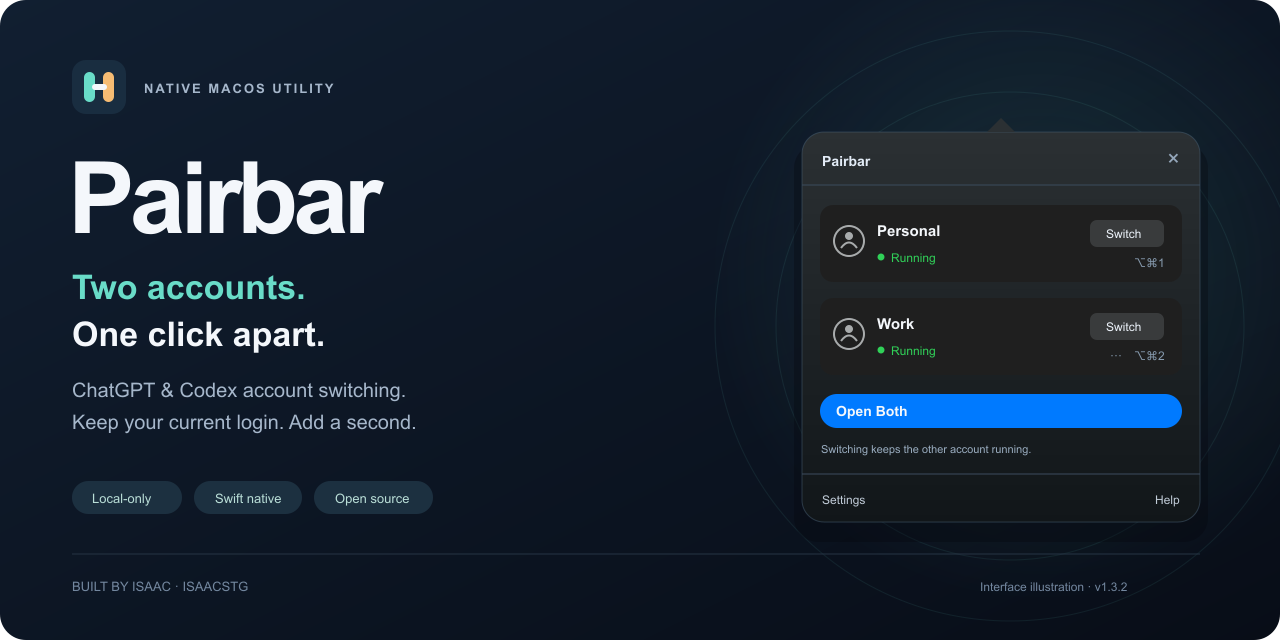
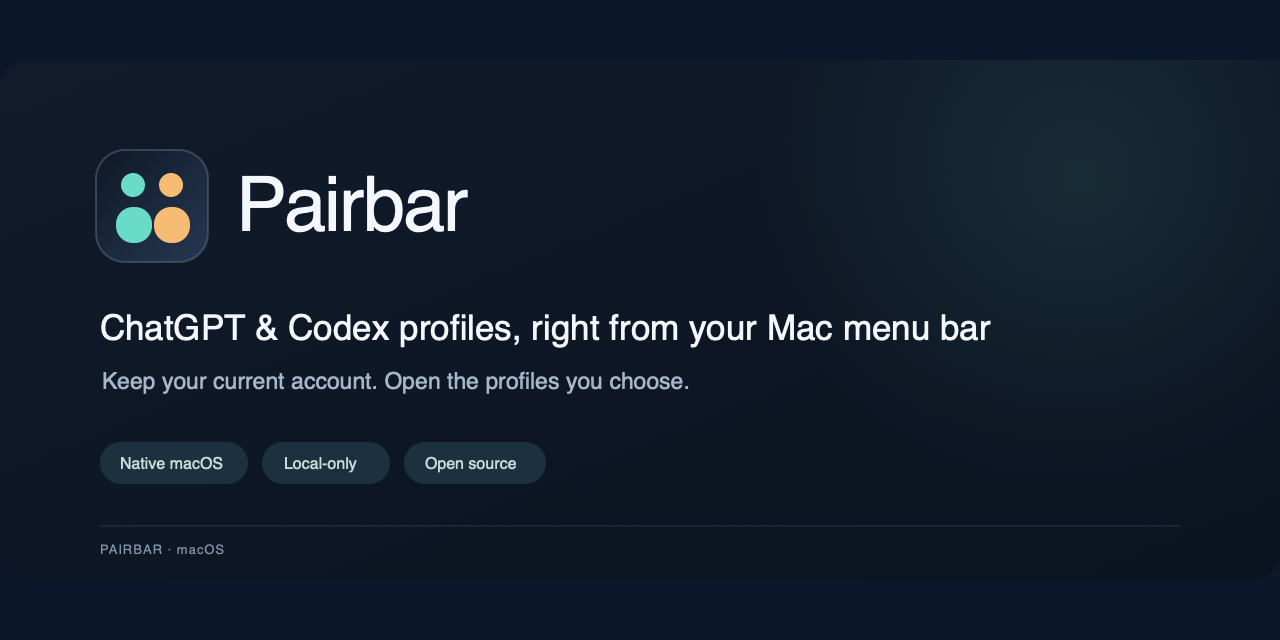
docs: refresh Pairbar README and branding

diff --git a/README.md b/README.md
@@ -1,38 +1,32 @@
 <p align="center">
-
-**Normal use is automatic:** open Pairbar, choose an account, and continue. Pairbar rechecks the saved ChatGPT location against the project's standard install paths when needed and clears a proven absent receipt locally even while Current is open, and resolves old interrupted launches only after provider-wide quiescence. Settings → Advanced retains Choose app…, Check again, and safe recovery for exceptional installations or unresolved issues. A newly installed build still asks for explicit approval.
-  <img src="docs/brand/banner.svg" alt="Pairbar — perfiles de ChatGPT y Codex desde la barra de menús de macOS." width="100%">
+  <img src="docs/brand/banner.svg" alt="Pairbar logo and tagline: ChatGPT and Codex profiles, right from your Mac menu bar." width="100%">
 </p>
 
-# Pairbar · account profiles for ChatGPT/Codex on macOS
+# Pairbar
 
-## Current release-candidate source status (2026-09-28)
+**ChatGPT &amp; Codex profiles, right from your Mac menu bar.**
 
-The PR #7 baseline was `main` at `55b704c9fdbb5fce5ee4dbbe011d9cf182813ada`. Its automated suite passed **168 tests, 0 failures**. A live installed pass on a post-merge artifact confirmed Current Codex, managed Work, preserved session, Switch, Search/⌘F, English/Spanish, Settings, and Add profile form. The healthy path needed no Check/Discovery, Repair, or Advanced action. These are operational observations, not a signed-in A/B account-isolation test.
-
-This source declares Pairbar **2.0.0 (25)** as the current development candidate; build 24 was the preceding candidate. Profile action buttons use a 44 × 44 pt hit target while retaining their row-based overlay anchor. Local and CI ZIPs remain ad-hoc development artifacts. Disposable signed-in isolation, a real ChatGPT build-update pass, clean first run, human VoiceOver speech/rotor, Developer ID signing, notarization, stapling, and final ZIP clean install remain open. The single [public binary release checklist](docs/PUBLIC_RELEASE_CHECKLIST.md) tracks the required gates.
-
-**Keep each provider's normal Current account. Save additional Codex profiles. Open only the ones you choose.**
-
-[![macOS CI](https://github.com/isaacstg/pairbar-codex/actions/workflows/ci.yml/badge.svg)](https://github.com/isaacstg/pairbar-codex/actions/workflows/ci.yml) [![macOS 13+](https://img.shields.io/badge/macOS-13%2B-111827?logo=apple&logoColor=white)](#build-and-try-it) [![Swift 5.9+](https://img.shields.io/badge/Swift-5.9%2B-F05138?logo=swift&logoColor=white)](Package.swift) [![MIT](https://img.shields.io/badge/license-MIT-69DCC8)](LICENSE)
-
-Pairbar is a native, local-only menu-bar utility for the official macOS apps. The current update keeps one ordinary **Current** account per provider and lets you save any number of additional **ChatGPT/Codex profiles**. It imposes no profile-count limit, but it never opens every saved profile automatically: you choose what to open, and memory-pressure warnings pause unsafe automatic openings.
-
-Each additional Codex profile gets its own Electron storage and `CODEX_HOME`. Pairbar does not swap tokens, copy sessions, read credentials, or modify the official app. It is an independent, unofficial project and is not affiliated with or endorsed by OpenAI or Anthropic.
-
-**[Build and try it](#build-and-try-it) · [User guide](docs/USER_GUIDE.md) · [Security model](SECURITY.md) · [Engineering case study](docs/CASE_STUDY.md)**
-
-> **Development status:** Pairbar's source, automated suite, audit, and local packaging checks are complete. The archive is an ad-hoc development artifact; there is no Developer ID signed, notarized public release. Managed Claude profiles remain disabled until real signed-in tests prove that both Chat and Code are separated without account crossover. Cowork is also unvalidated. See [implementation status](docs/IMPLEMENTATION_STATUS.md).
+Pairbar is a native macOS menu-bar app for keeping your usual account and opening only the additional ChatGPT or Codex profiles you choose. Profiles stay local on your Mac; Pairbar does not copy sessions or read credentials.
 
 <p align="center">
-  <img src="docs/images/pairbar-profiles.png" alt="Pairbar's compact profile list in English with synthetic accounts" width="46%">
-  <img src="docs/images/pairbar-profiles-es.png" alt="Pairbar's compact profile list in Spanish with synthetic accounts" width="46%">
-</p>
-<p align="center">
-  <img src="docs/images/pairbar-settings.png" alt="Pairbar settings with synthetic preview data" width="46%">
+  <img src="docs/images/pairbar-profiles.png" alt="Pairbar profile list in English with synthetic profile names and states" width="47%">
+  <img src="docs/images/pairbar-settings.png" alt="Pairbar settings panel showing language, login options, and Advanced in the inert preview" width="47%">
 </p>
 
-These are native screenshots from Pairbar's inert preview. Names and states are synthetic. The preview can change language and login selections locally for visual inspection, but cannot open accounts, change system login items, export data, or control provider processes.
+Screenshots use Pairbar's inert preview and synthetic names. The preview does not open accounts, change login items, or control provider apps.
+
+## Why Pairbar
+
+- Keep the official app's **Current** account while saving the extra profiles you need.
+- Open a profile or a chosen group from the native menu-bar popover.
+- Keep profile data and preferences on your Mac, with no Pairbar networking or telemetry.
+- Use search, favorites, filters, and optional keyboard shortcuts to reach profiles quickly.
+
+**[Build](#build-and-try-it) · [User Guide](docs/USER_GUIDE.md) · [Security](SECURITY.md) · [Case Study](docs/CASE_STUDY.md)**
+
+[![macOS CI](https://github.com/isaacstg/pairbar-codex/actions/workflows/ci.yml/badge.svg)](https://github.com/isaacstg/pairbar-codex/actions/workflows/ci.yml) [![macOS 13+](https://img.shields.io/badge/macOS-13%2B-111827?logo=apple&logoColor=white)](#build-and-try-it) [![Swift 5.9+](https://img.shields.io/badge/Swift-5.9%2B-F05138?logo=swift)](Package.swift) [![MIT](https://img.shields.io/badge/license-MIT-69DCC8)](LICENSE)
+
+Pairbar is independent and unofficial, with no affiliation with or endorsement from OpenAI or Anthropic.
 
 ## Everyday workflow
 
@@ -65,6 +59,18 @@ Pairbar stays in a native popover. It has no permanent window and does not requi
 - **No switcher networking.** Pairbar contains no network client, telemetry, updater, credential reader, token copier, Keychain access, or inspection of another process's arguments or environment.
 
 This is profile separation within one macOS user, not an operating-system security boundary. The official apps and their upstream behavior determine whether profile overrides provide real session separation. Pairbar therefore treats static compatibility checks as necessary evidence, never as proof of account isolation.
+
+## Development and release status
+
+Pairbar is in active development. The repository contains source code and local development packaging; there is no Developer ID-signed, notarized public release. Managed Claude profiles remain disabled pending real signed-in tests of Chat and Code session separation, and Claude Cowork is not validated. See [implementation status](docs/IMPLEMENTATION_STATUS.md) and the [public release checklist](docs/PUBLIC_RELEASE_CHECKLIST.md) for current evidence and open gates.
+
+### Validation notes from the 2026-09-28 checkpoint
+
+At that checkpoint, the PR #7 baseline was `main` at `55b704c9fdbb5fce5ee4dbbe011d9cf182813ada`; its automated suite reported **168 tests, 0 failures**. A live installed pass on a post-merge artifact covered Current Codex, managed Work, preserved session, Switch, Search/⌘F, English and Spanish, Settings, and the Add profile form. This was not a signed-in A/B account-isolation test.
+
+The source at that checkpoint declared Pairbar **2.0.0 (25)** as a development candidate, following build 24. Profile action buttons used a 44 × 44 pt hit target. Disposable signed-in isolation, a ChatGPT build-update pass, clean first run, human VoiceOver speech/rotor, Developer ID signing, notarization, stapling, and final ZIP clean install were still open. The source-policy audit, diff/plist/shell checks, universal release compilation, ZIP extraction, and strict all-architectures signature verification had passed on the historical PR #7 baseline.
+
+The historical PR #4 Pairbar 2.0.0 (17) archive contained `x86_64` and `arm64` and was ad-hoc signed with hardened runtime; it was not Developer ID signed or notarized. Build and CI archives are development artifacts until the release gates are complete.
 
 ## Build and try it
 

diff --git a/docs/brand/README.md b/docs/brand/README.md
@@ -2,13 +2,11 @@
 
 Pairbar = two accounts paired in the macOS menu bar. The repository is `isaacstg/pairbar-codex`. Its former `pairbar` and `codex-dual-account-switcher` URLs redirect; the description and README retain ChatGPT/Codex account-switcher keywords for discoverability.
 
-- **Tagline:** Two accounts. One click apart.
+- **Tagline:** ChatGPT & Codex profiles, right from your Mac menu bar.
 - **Palette:** ink `#0B1220`, mint `#69DCC8`, amber `#F6BC73`, paper `#F4F7FB`.
-- **Mark:** two parallel rounded bars with a small connecting segment; one account stays ordinary while the other is added alongside it.
+- **Mark:** a dark rounded square containing paired mint and amber profile shapes, matching the Pairbar app icon.
 - **Assets:** `logo.svg` and `banner.svg` are editable, first-party static vectors. `social-preview.png` is a 1280×640 export for GitHub's social preview setting and link cards.
 
-The banner's small app panel is an interface illustration based on 1.3.2, not a screenshot. It contains synthetic Personal/Work labels, no real account identity or diagnostic output, and no OpenAI logo.
-
-Pairbar 1.3.2 applies the brand to the native UI, accessibility labels, `Pairbar.app`, and `Pairbar.zip` as well as GitHub. The bundle identifier, package executable, settings schema, and data root are preserved for upgrade compatibility.
+The banner is a simple brand hero with no app interface illustration. Product screenshots in the main README are captured from Pairbar's inert preview and use synthetic data.
 
 All assets use the repository's MIT license. Social-preview upload is a separate repository UI setting; adding the PNG to Git does not automatically configure that setting.
